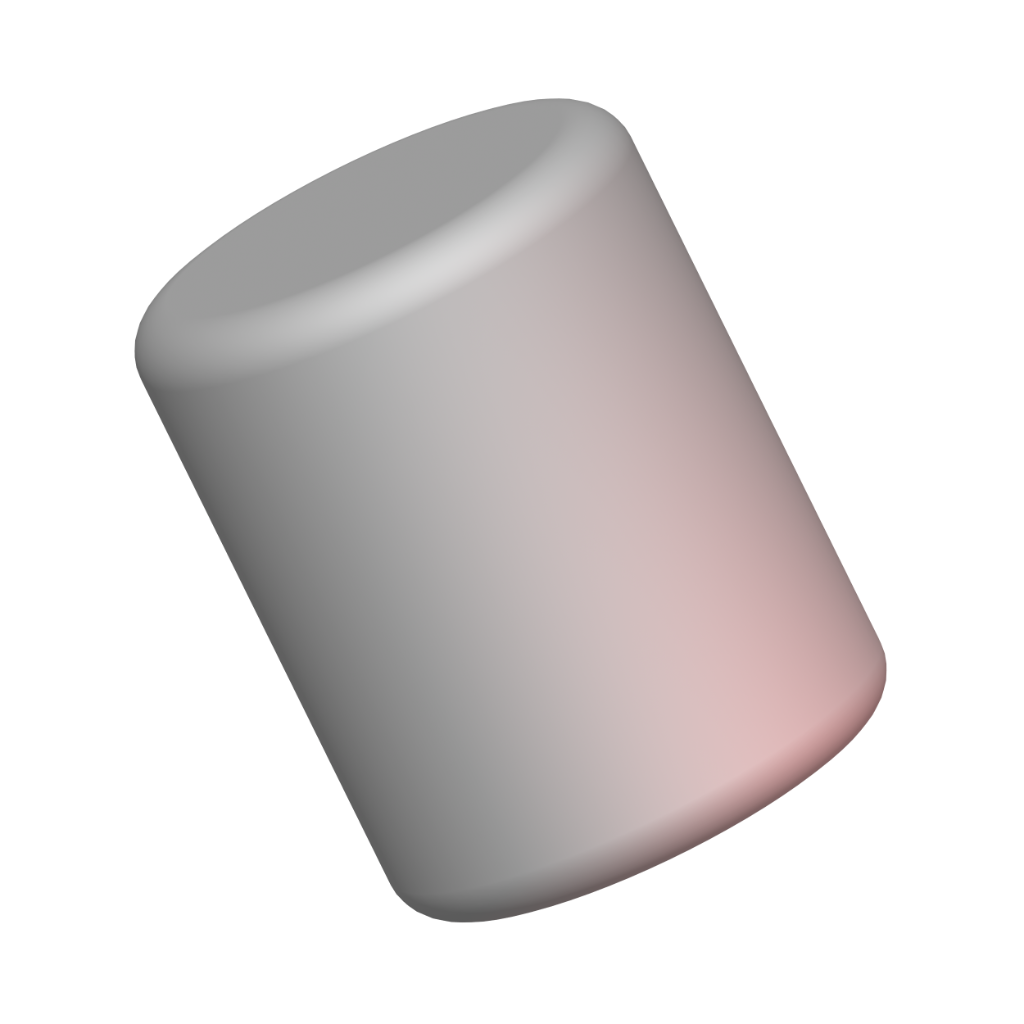
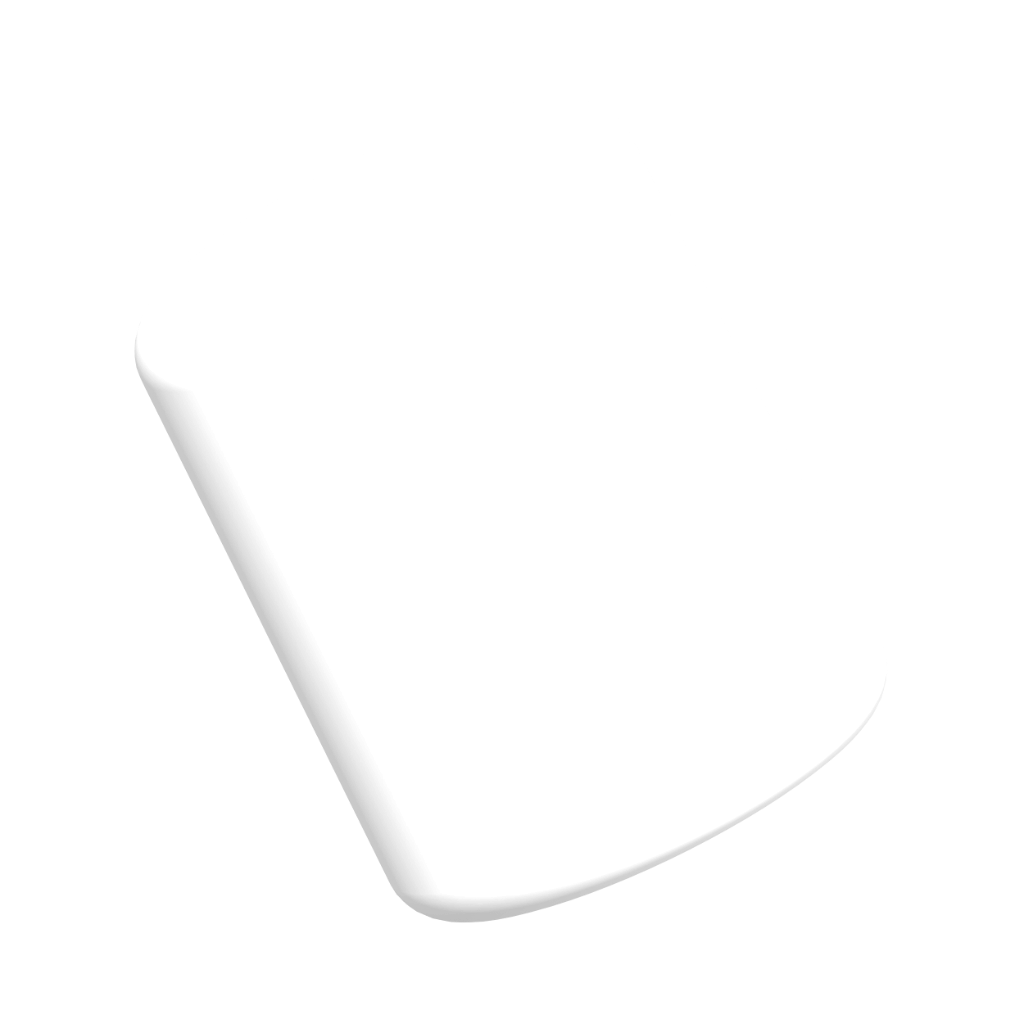
fix: use pure white cylinder asset and fix Featured tab clipping bug

diff --git a/components/sections/Discover.tsx b/components/sections/Discover.tsx
@@ -88,21 +88,21 @@ export function Discover() {
         </div>
 
         {/* Tab_Categories */}
-        <div className="w-full max-w-[1200px] flex flex-col items-center gap-[16px] mt-[48px] sm:mt-[56px]">
+        <div className="w-full max-w-[1440px] flex flex-col items-center gap-[16px] mt-[48px] sm:mt-[56px] px-4">
           <div
-            className="w-full flex items-center justify-start lg:justify-center gap-[12px] sm:gap-[16px] overflow-x-auto no-scrollbar py-1"
+            className="w-full flex items-center justify-start xl:justify-center gap-[12px] sm:gap-[16px] overflow-x-auto no-scrollbar py-1 px-2"
             style={{ scrollbarWidth: "none", msOverflowStyle: "none" }}
           >
             {CATEGORIES_ROW_1.map(renderPill)}
           </div>
           <div
-            className="w-full flex items-center justify-start lg:justify-center gap-[12px] sm:gap-[16px] overflow-x-auto no-scrollbar py-1"
+            className="w-full flex items-center justify-start xl:justify-center gap-[12px] sm:gap-[16px] overflow-x-auto no-scrollbar py-1 px-2"
             style={{ scrollbarWidth: "none", msOverflowStyle: "none" }}
           >
             {CATEGORIES_ROW_2.map(renderPill)}
           </div>
           <div
-            className="w-full flex items-center justify-start lg:justify-center gap-[12px] sm:gap-[16px] overflow-x-auto no-scrollbar py-1"
+            className="w-full flex items-center justify-start xl:justify-center gap-[12px] sm:gap-[16px] overflow-x-auto no-scrollbar py-1 px-2"
             style={{ scrollbarWidth: "none", msOverflowStyle: "none" }}
           >
             {CATEGORIES_ROW_3.map(renderPill)}

diff --git a/components/sections/CreatorCTA.tsx b/components/sections/CreatorCTA.tsx
@@ -152,7 +152,7 @@ export function CreatorCTA() {
         </div>
 
         {/* 6. Middle-Right White Cylinder */}
-        {/* Figma: tilted cylinder to the right of the cone, framing the right edge */}
+        {/* Figma: pure clean white 3D cylinder framing the right edge */}
         <div
           className="absolute pointer-events-none z-10"
           style={{
@@ -163,13 +163,13 @@ export function CreatorCTA() {
           }}
         >
           <Image
-            src="/images/cta/cta-cylinder-white.png"
+            src="/images/cta/cta-cylinder-white-bright.png"
             alt=""
             width={270}
             height={270}
             priority
             unoptimized
-            className="w-full h-full object-contain drop-shadow-2xl grayscale brightness-105"
+            className="w-full h-full object-contain drop-shadow-2xl"
           />
         </div>
 
